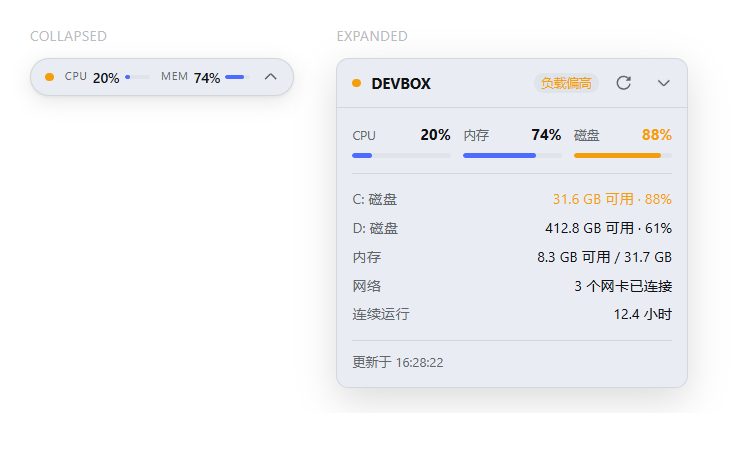
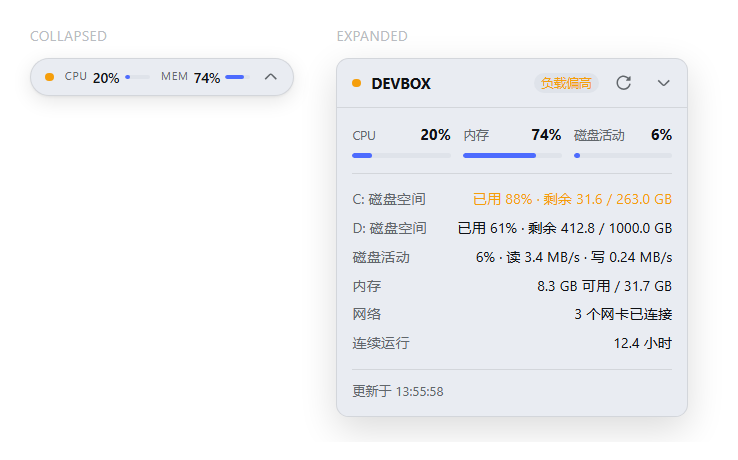
fix(client): keep a large volume's total visible in the capacity row
Stating the unit twice ("412.8 GB / 1000.0 GB") overflowed the 280 px row and
the ellipsis swallowed the total — the one number the row exists to convey.
The pair now shares a single unit ("412.8 / 1000.0 GB"), with the full wording
kept in the title attribute.

Also refresh docs/preview.png, which still showed the pre-disk-activity panel.
Regenerated from the built client at the same 590x368 CSS viewport and DPR 1.25
as before, so it is the real component rather than a mock-up, and the disk
activity figures in it are readings taken from a real machine.

diff --git a/lib/client.js b/lib/client.js
@@ -79,6 +79,17 @@ window.__ModuleLoader__.load({
 		function formatGB(value) {
 			return value === null ? "--" : `${value.toFixed(1)} GB`;
 		}
+		/**
+		* A free/total pair stated with one unit, e.g. `412.8 / 1000.0 GB`.
+		*
+		* Repeating "GB" on both numbers overflows the 280 px row on a large volume —
+		* which showed up as an ellipsis swallowing the total, the one number the row
+		* exists to convey.
+		*/
+		function formatVolume(free, total) {
+			if (free === null || total === null) return formatGB(free ?? total);
+			return `${free.toFixed(1)} / ${total.toFixed(1)} GB`;
+		}
 		/** Throughput, kept readable from a trickle to hundreds of MB/s. */
 		function formatThroughput(value) {
 			if (value === null) return "";
@@ -319,7 +330,8 @@ window.__ModuleLoader__.load({
 					className: "sm-row",
 					children: [/* @__PURE__ */ (0, react_jsx_runtime.jsx)("span", { children: `${item.name} 磁盘空间` }), /* @__PURE__ */ (0, react_jsx_runtime.jsx)("span", {
 						className: item.usedPct >= DISK_CAPACITY_SEVERITY.warn ? "sm-alert" : "",
-						children: `已用 ${item.usedPct}% · 剩余 ${formatGB(item.free)} / ${formatGB(item.total)}`
+						title: `${item.name} 已用 ${item.usedPct}% · 剩余 ${formatGB(item.free)} / ${formatGB(item.total)}`,
+						children: `已用 ${item.usedPct}% · 剩余 ${formatVolume(item.free, item.total)}`
 					})]
 				}, item.name));
 				rows.push(/* @__PURE__ */ (0, react_jsx_runtime.jsxs)("div", {

diff --git a/src/client/Monitor.tsx b/src/client/Monitor.tsx
@@ -81,6 +81,18 @@ function formatGB(value: number | null): string {
   return value === null ? '--' : `${value.toFixed(1)} GB`
 }
 
+/**
+ * A free/total pair stated with one unit, e.g. `412.8 / 1000.0 GB`.
+ *
+ * Repeating "GB" on both numbers overflows the 280 px row on a large volume —
+ * which showed up as an ellipsis swallowing the total, the one number the row
+ * exists to convey.
+ */
+function formatVolume(free: number | null, total: number | null): string {
+  if (free === null || total === null) return formatGB(free ?? total)
+  return `${free.toFixed(1)} / ${total.toFixed(1)} GB`
+}
+
 /** Throughput, kept readable from a trickle to hundreds of MB/s. */
 function formatThroughput(value: number | null): string {
   if (value === null) return ''
@@ -365,7 +377,8 @@ export function Monitor({ ctx }: { ctx: ClientPluginContext }): ReactElement {
           <span>{`${item.name} 磁盘空间`}</span>
           <span
             className={item.usedPct >= DISK_CAPACITY_SEVERITY.warn ? 'sm-alert' : ''}
-          >{`已用 ${item.usedPct}% · 剩余 ${formatGB(item.free)} / ${formatGB(item.total)}`}</span>
+            title={`${item.name} 已用 ${item.usedPct}% · 剩余 ${formatGB(item.free)} / ${formatGB(item.total)}`}
+          >{`已用 ${item.usedPct}% · 剩余 ${formatVolume(item.free, item.total)}`}</span>
         </div>,
       )
     }
